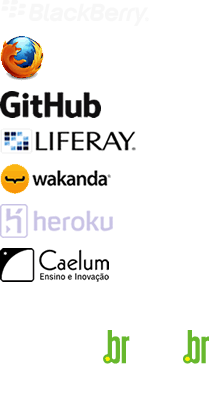
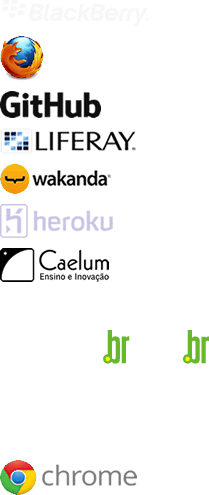
New sponsors

diff --git a/css/main.css b/css/main.css
@@ -398,7 +398,8 @@ main .where { float:left; width:432px; font-size:28px; font-weight:bold; letter-
 .mozilla-hackday .logo { position:absolute; top:-50px; left:-40px; margin:0; width:445px; height:251px; background:url('../img/mozilla.svg') no-repeat; pointer-events:none; }
 .mozilla-hackday .info { float:right; margin-right:25px; padding-top:25px; width:527px; }
 .mozilla-hackday .description { margin-bottom:20px; font-size:14px; color:#FFF; }
-.mozilla-hackday .apply { padding:5px 10px; background-color:#FFF; font-family:'Bangers', cursive; font-size:20px; color:rgb(229,96,37); text-decoration:none; } 
+.mozilla-hackday .apply { padding:5px 10px; background-color:#FFF; font-family:'Bangers', cursive; font-size:20px; color:rgb(229,96,37); text-decoration:none; transition:all ease .7s; } 
+.mozilla-hackday .apply:hover { background-color:rgb(229,96,37); color:#FFF; }
 
 /* LOCALE */
 #locale { display:inline-block; clear:both; margin-top:200px; width:100%; }
@@ -477,6 +478,9 @@ main .where { float:left; width:432px; font-size:28px; font-weight:bold; letter-
 #sponsors .sponsors-wrapper .sponsors .sponsor-list .w3c { background-color:rgb(0,74,255); }
 #sponsors .sponsors-wrapper .sponsors .sponsor-list .w3c .sponsor a { margin:13px 0 0 -8px; width:209px; height:66px; background-position:0 -554px; }
 #sponsors .sponsors-wrapper .sponsors .sponsor-list .w3c .about { color:#FFF; }
+#sponsors .sponsors-wrapper .sponsors .sponsor-list .google { background-color:#FFF; }
+#sponsors .sponsors-wrapper .sponsors .sponsor-list .google .sponsor a { margin:2px 0 0 -8px; width:203px; height:52px; background-position:0 -728px; }
+#sponsors .sponsors-wrapper .sponsors .sponsor-list .google .about { color:#000; }
 #sponsors .sponsors-wrapper .sponsors .sponsor-list .about { float:left; margin:0; width:670px; font-family:Arial, Helvetica, sans-serif; font-size:15px; line-height:120%; color:rgb(255,255,255); text-align:left; }
 #sponsors .sponsors-wrapper .squares .sponsor-list { padding:0; }
 #sponsors .sponsors-wrapper .squares li { display:inline-block; margin-left:14px; }
@@ -487,7 +491,9 @@ main .where { float:left; width:432px; font-size:28px; font-weight:bold; letter-
 #sponsors .sponsors-wrapper .squares .sponsor-list .sponsor .caelum { margin:43px 0 0 16px; width:191px; height:60px; background-position:0 -410px; }
 #sponsors .sponsors-wrapper .squares .sponsor-list .sponsor .adobe { margin:50px 0 0 28px; width:163px; height:44px; background-position:0 -137px; }
 #sponsors .sponsors-wrapper .squares .sponsor-list .sponsor.adobe { background-color:rgb(236,26,44); }
-#sponsors .sponsors-wrapper .squares .sponsor-list .sponsor.adobe .sponsors-general { margin:48px 0 0 17px; height:42px; width:191px; background-position:0 -491px;} 
+#sponsors .sponsors-wrapper .squares .sponsor-list .sponsor.adobe .sponsors-general { margin:48px 0 0 17px; height:42px; width:191px; background-position:0 -491px;}
+#sponsors .sponsors-wrapper .squares .sponsor-list .sponsor.treinaweb { background-color:#0177BF; }
+#sponsors .sponsors-wrapper .squares .sponsor-list .sponsor.treinaweb .sponsors-general { margin:35px auto; height:67px; width:155px; background-position:0 -640px;} 
 #sponsors .sponsors-wrapper .squares .sponsor-list .sponsor .wakanda { margin:45px 0 0 12px; width:193px; height:52px; background-position:0 -270px; }
 #sponsors .sponsors-wrapper .squares .sponsor-list .sponsor.heroku { background-color:rgb(41,38,77); }
 #sponsors .sponsors-wrapper .squares .sponsor-list .sponsor .heroku { margin:51px 0 0 31px; width:159px; height:48px; background-position:0 -342px; } 
@@ -510,6 +516,7 @@ main .where { float:left; width:432px; font-size:28px; font-weight:bold; letter-
 #sponsors .sponsors-wrapper .supporters a.get-up { margin-top:13px; width:102px; height:53px; background-position:0 -339px; }
 #sponsors .sponsors-wrapper .supporters a.treinaweb { margin-top:13px; width:118px; height:51px; background-position:0 -412px; }
 #sponsors .sponsors-wrapper .supporters a.superplayer { margin-top:21px; width:180px; height:57px; background-position:0 -483px; }
+#sponsors .sponsors-wrapper .supporters a.kinghost { margin-top:30px; width:193px; height:26px; background-position:0 -545px; }
 
 /* FOLLOW US */
 #follow-us { position:relative; clear:both; padding-top:20px; width:100%; background-color:#171314; } 
@@ -574,7 +581,7 @@ main .where { float:left; width:432px; font-size:28px; font-weight:bold; letter-
 /* SOCIAL */
 .social-container { margin:auto; width:500px; }
 #social-networks { position:relative; float:left; padding:33px 0 0 17px; margin:auto auto 150px auto; width:300px; height:150px; }
-#social-networks .share-this { position:absolute; bottom:14px; left:30px; height:54px; width:139px; }
+#social-networks .share-this { position:absolute; bottom:14px; left:-5px; height:54px; width:139px; }
 #social-networks ul { padding:0; margin:0; }
 #social-networks ul li { display:inline-block; margin-right:10px; vertical-align:top; }
 .ticket-container { position:relative; float:right; padding-top:13px; }
@@ -795,6 +802,7 @@ main .where { float:left; width:432px; font-size:28px; font-weight:bold; letter-
     #sponsors .sponsors-wrapper .sponsors .sponsor-list .mozilla .sponsor a { margin:auto; height:44px; width:149px; background-position:0 -36px; }
     #sponsors .sponsors-wrapper .sponsors .sponsor-list .liferay .sponsor a { margin:auto; width:135px; height:19px; background-position:0 -132px; }
     #sponsors .sponsors-wrapper .sponsors .sponsor-list .w3c .sponsor a { margin:auto; width:209px; height:66px; background-position:0 -330px; }
+    #sponsors .sponsors-wrapper .sponsors .sponsor-list .google .sponsor a { margin:auto; width:137px; height:35px; background-position:0 -460px; }
     #sponsors .sponsors-wrapper .squares .sponsor-list { padding:0; }
     #sponsors .sponsors-wrapper .squares li { margin-left:0; width:145px !important; }
     #sponsors .sponsors-wrapper .squares li:nth-last-child(even) { margin-right:5px; }
@@ -803,8 +811,8 @@ main .where { float:left; width:432px; font-size:28px; font-weight:bold; letter-
     #sponsors .sponsors-wrapper .squares .sponsor-list .sponsor .github { margin:35px auto; height:27px; width:101px; background-position:0 -91px; }    
     #sponsors .sponsors-wrapper .squares .sponsor-list .sponsor .caelum { margin:35px auto; height:34px; width:109px; background-position:0 -248px; }    
     #sponsors .sponsors-wrapper .squares .sponsor-list .sponsor .wakanda { margin:35px auto; height:30px; width:111px; background-position:0 -164px; }    
-    #sponsors .sponsors-wrapper .squares .sponsor-list .sponsor.heroku { }
-    #sponsors .sponsors-wrapper .squares .sponsor-list .sponsor .heroku { margin:35px auto; height:34px; width:113px; background-position:0 -204px; }    
+    #sponsors .sponsors-wrapper .squares .sponsor-list .sponsor .heroku { margin:35px auto; height:34px; width:113px; background-position:0 -204px; }
+    #sponsors .sponsors-wrapper .squares .sponsor-list .sponsor.treinaweb .treinaweb { margin:35px auto; height:44px; width:99px; background-position:0 -406px !important; }    
     #sponsors .sponsors-wrapper .supporters { display:inline-block; padding-bottom:20px; }
     #sponsors .sponsors-wrapper .supporters .ttl-general { width:153px; background-position:0 -637px; }
     .LNG-en-us #sponsors .sponsors-wrapper .supporters .ttl-general { background-position:0 -636px; }
@@ -820,7 +828,8 @@ main .where { float:left; width:432px; font-size:28px; font-weight:bold; letter-
     #sponsors .sponsors-wrapper .supporters a.abradi { width:125px; height:29px; background-position:0 -144px; }
     #sponsors .sponsors-wrapper .supporters a.get-up { width:83px; height:43px; background-position:0 -222px; }
     #sponsors .sponsors-wrapper .supporters a.treinaweb { width:81px; height:36px; background-position:0 -275px; }
-    #sponsors .sponsors-wrapper .supporters a.superplayer { width:163px; height:29px; background-position:0 -321px; }
+    #sponsors .sponsors-wrapper .supporters a.superplayer { margin-bottom:6px; width:123px; height:29px; background-position:0 -321px; }
+    #sponsors .sponsors-wrapper .supporters a.kinghost { margin-top:15px; width:114px; height:17px; background-position:0 -360px; }
     #sponsors .sponsors-wrapper .squares .sponsor-list .sponsor.adobe .sponsors-general { margin-top:37px; width:115px; height:27px; background-position:0 -292px; }
     #sponsors .sponsors-wrapper .be-a-sponsor { padding-bottom:40px; font-size:15px; }
     
@@ -1113,14 +1122,16 @@ main .where { float:left; width:432px; font-size:28px; font-weight:bold; letter-
     #sponsors .sponsors-wrapper .sponsors .sponsor-list .mozilla .sponsor a { margin-top:31px; height:50px; width:149px; background-position:0 -40px; }
     #sponsors .sponsors-wrapper .sponsors .sponsor-list .liferay .sponsor a { margin-top:38px; width:135px; height:20px; background-position:0 -235px; }
     #sponsors .sponsors-wrapper .sponsors .sponsor-list .w3c .sponsor a { margin:36px 0 0 -4px; width:149px; height:57px; background-position:0 -516px; }
+    #sponsors .sponsors-wrapper .sponsors .sponsor-list .google .sponsor a { margin-top:16px; width:159px; height:42px; background-position:0 -659px; }
     #sponsors .sponsors-wrapper .squares li { width:auto !important; }
     #sponsors .sponsors-wrapper .squares li a { width:167px; height:121px; }
     #sponsors .sponsors-wrapper .squares li .sponsor.join-us { width:168px; height:121px; background:url('../img/tablet/bg-join-us.png') no-repeat; }    
     #sponsors .sponsors-wrapper .squares .sponsor-list .sponsor .github { margin:43px 0 0 19px; height:35px; width:128px; background-position:0 -177px; }
     #sponsors .sponsors-wrapper .squares .sponsor-list .sponsor .caelum { margin:41px 0 0 17px; height:42px; width:135px; background-position:0 -398px; }
     #sponsors .sponsors-wrapper .squares .sponsor-list .sponsor .wakanda { margin:43px 0 0 11px; height:38px; width:142px; background-position:0 -278px; }
-    #sponsors .sponsors-wrapper .squares .sponsor-list .sponsor .heroku { margin:41px 0 0 14px; height:42px; width:140px; background-position:0 -336px; }
+    #sponsors .sponsors-wrapper .squares .sponsor-list .sponsor .heroku { margin:41px 0 0 14px; height:42px; width:140px; background-position:0 -336px; }    
     #sponsors .sponsors-wrapper .squares .sponsor-list .sponsor.adobe .sponsors-general { margin:40px 0 0 10px; height:34px; width:149px; background-position:0 -461px; }
+    #sponsors .sponsors-wrapper .squares .sponsor-list .sponsor.treinaweb .sponsors-general { height:54px; width:123px; background-position:0 -585px; }
     #sponsors .sponsors-wrapper .supporters { display:inline-block; padding-bottom:40px; }
     #sponsors .sponsors-wrapper .supporters.educational .ttl-general { background-position:-220px -1151px; }
     .LNG-en-us #sponsors .sponsors-wrapper .supporters.educational .ttl-general { background-position:-283px -1136px; }

diff --git a/en/index.html b/en/index.html
@@ -1095,6 +1095,12 @@
                                     </strong>
                                     <p class="about">A Liferay é líder mundial em soluções para portais horizontais de colaboração social de código aberto. Reconhecida pelo Gartner em seu Quadrante Mágico como líder, possui escritórios físicos em mais de 14 países ao redor do mundo. No Brasil os escritórios estão em São Paulo e Recife, responsáveis por atender toda a América Latina.</p>
                                 </li>
+                                <li class="google">
+                                    <strong class="sponsor">
+                                        <a href="//developers.google.com/chrome/" rel="external" title="visit Google Chrome &mdash; Google Developers" class="sponsors-general">Google</a>    
+                                    </strong>                                    
+                                    <p class="about">Google Inc. is an American multinational corporation specializing in Internet-related services and products. These include search, cloud computing, software and online advertising technologies. Most of its profits are derived from AdWords.</p>
+                                </li>                                 
                             </ul>
                         </div>
                         <div class="sponsors silver squares">
@@ -1107,10 +1113,10 @@
                                     <a href="https://www.heroku.com" rel="external" title="Know more about Heroku" class="sponsor heroku" rel="external"><span class="heroku sponsors-general">Heroku</span></a>
                                 </li>
                                 <li>
-                                    <a href="mailto:contato@braziljs.org" title="Wanna be a sponsor? Talk to us!" class="sponsor join-us">&nbsp;</a>
+                                    <a href="mailto:contato@braziljs.com.br" title="Wanna be a sponsor? Talk to us!" class="sponsor join-us">&nbsp;</a>
                                 </li>
                                 <li>
-                                    <a href="mailto:contato@braziljs.org" title="Wanna be a sponsor? Talk to us!" class="sponsor join-us">&nbsp;</a>
+                                    <a href="mailto:contato@braziljs.com.br" title="Wanna be a sponsor? Talk to us!" class="sponsor join-us">&nbsp;</a>
                                 </li>
                             </ul>
                         </div>
@@ -1127,11 +1133,11 @@
                                     <a href="//caelum.com.br" rel="external" title="Caelum - Ensino e Inovação" class="sponsor" rel="external"><span class="caelum sponsors-general">Caelum</span></a>
                                 </li>
                                 <li>
-                                    <a href="mailto:contato@braziljs.org" title="Wanna be a sponsor? Talk to us!" class="sponsor join-us">&nbsp;</a>
-                                </li>                                
+                                    <a href="//www.treinaweb.com.br/" rel="external" title="Cursos de TI - TreinaWeb cursos online" class="sponsor treinaweb"><span class="treinaweb sponsors-general">TreinaWeb</span></a>
+                                </li>                               
                             </ul>
                         </div>
-                        <p class="be-a-sponsor">Want to be part of our history? Be a #Braziljs sponsor too!<a href="mailto:contato@braziljs.org" title="Talk to us!"> Get in touch!</a></p>
+                        <p class="be-a-sponsor">Want to be part of our history? Be a #Braziljs sponsor too!<a href="mailto:contato@braziljs.com.br" title="Talk to us!"> Get in touch!</a></p>
                         <div class="supporters educational">
                             <h3 class="ir ttl-general">Educational support:</h3>
                             <ul>
@@ -1145,9 +1151,9 @@
                                 <li><a href="//www.eventick.com.br" title="Eventick" class="eventick ir" rel="external">Eventick</a></li>
                                 <li><a href="//www.abradi-rs.com.br" title="ABRADI-RS" class="abradi ir" rel="external">ABRADI-RS</a></li>
                                 <li><a href="//www.casadocodigo.com.br" rel="external" title="Casa do código - livros para o programador" class="casa-do-codigo ir">Casa do código</a></li>
-                                <li><a href="//getupcloud.com/" rel="external" title="Getup - Grow in the cloud" class="get-up ir">Getup</a></li>
-                                <li><a href="//www.treinaweb.com.br/" rel="external" title="Cursos de TI - TreinaWeb cursos online" class="treinaweb ir">TreinaWeb</a></li>
+                                <li><a href="//getupcloud.com/" rel="external" title="Getup - Grow in the cloud" class="get-up ir">Getup</a></li>                                
                                 <li><a href="//superplayer.fm/" rel="external" title="O Superplayer é a forma mais fácil e rápida de se encontrar a trilha sonora certa para cada momento do seu dia. Confira!" class="superplayer ir">Superplayer</a></li>
+                                <li><a href="//kinghost.com.br/" rel="external" title="KingHost: Hospedagem de Sites Linux e Windows" class="kinghost ir">KingHost</a></li>
                             </ul>
                         </div>                                               
                     </div>          				    

diff --git a/index.html b/index.html
@@ -1100,6 +1100,12 @@
                                     </strong>                                    
                                     <p class="about">A Liferay é líder mundial em soluções para portais horizontais de colaboração social de código aberto. Reconhecida pelo Gartner em seu Quadrante Mágico como líder, possui escritórios físicos em mais de 14 países ao redor do mundo. No Brasil os escritórios estão em São Paulo e Recife, responsáveis por atender toda a América Latina.</p>
                                 </li>
+                                <li class="google">
+                                    <strong class="sponsor">
+                                        <a href="//developers.google.com/chrome/" rel="external" title="visite o site do Google Chrome &mdash; Google Developers" class="sponsors-general">Google</a>    
+                                    </strong>
+                                    <p class="about">Google Inc. é uma multinacional Norte Americana especializada em produtos e serviços relacionados a internet. Esses serviços incluem busca, cloud computing, software e tecnologias de anuncios online. A maior parte do seu lucro é oriundo dos AdWords.</p>
+                                </li>                                
                             </ul>
                         </div>
                         <div class="sponsors silver squares">
@@ -1130,10 +1136,10 @@
                                 </li>                                
                                 <li>
                                     <a href="//caelum.com.br" rel="external" title="Caelum - Ensino e Inovação" class="sponsor" rel="external"><span class="caelum sponsors-general">Caelum</span></a>
-                                </li>                                
+                                </li>
                                 <li>
-                                    <a href="mailto:contato@braziljs.com.br" title="Quer ser um patrocinador? Fale conosco!" class="sponsor join-us">&nbsp;</a>                                    
-                                </li>                                
+                                    <a href="//www.treinaweb.com.br/" rel="external" title="Cursos de TI - TreinaWeb cursos online" class="sponsor treinaweb"><span class="treinaweb sponsors-general">TreinaWeb</span></a>
+                                </li>
                             </ul>
                         </div>
                         <p class="be-a-sponsor">Também deseja fazer parte da nossa história? Seja um patrocinador do #BrazilJS2013! <a href="mailto:contato@braziljs.com.br" title="participe você também!">Entre em contato!</a></p>                        
@@ -1150,9 +1156,9 @@
                                 <li><a href="//www.eventick.com.br" title="Eventick" class="eventick ir" rel="external">Eventick</a></li>
                                 <li><a href="//www.abradi-rs.com.br" title="ABRADI-RS" class="abradi ir" rel="external">ABRADI-RS</a></li>
                                 <li><a href="//www.casadocodigo.com.br" rel="external" title="Casa do código - livros para o programador" class="casa-do-codigo ir">Casa do código</a></li>
-                                <li><a href="//getupcloud.com/" rel="external" title="Getup - Grow in the cloud" class="get-up ir">Getup</a></li>
-                                <li><a href="//www.treinaweb.com.br/" rel="external" title="Cursos de TI - TreinaWeb cursos online" class="treinaweb ir">TreinaWeb</a></li>
+                                <li><a href="//getupcloud.com/" rel="external" title="Getup - Grow in the cloud" class="get-up ir">Getup</a></li>                                
                                 <li><a href="//superplayer.fm/" rel="external" title="O Superplayer é a forma mais fácil e rápida de se encontrar a trilha sonora certa para cada momento do seu dia. Confira!" class="superplayer ir">Superplayer</a></li>
+                                <li><a href="//kinghost.com.br/" rel="external" title="KingHost: Hospedagem de Sites Linux e Windows" class="kinghost ir">KingHost</a></li>
                             </ul>
                         </div>                                                
                     </div>          				    
